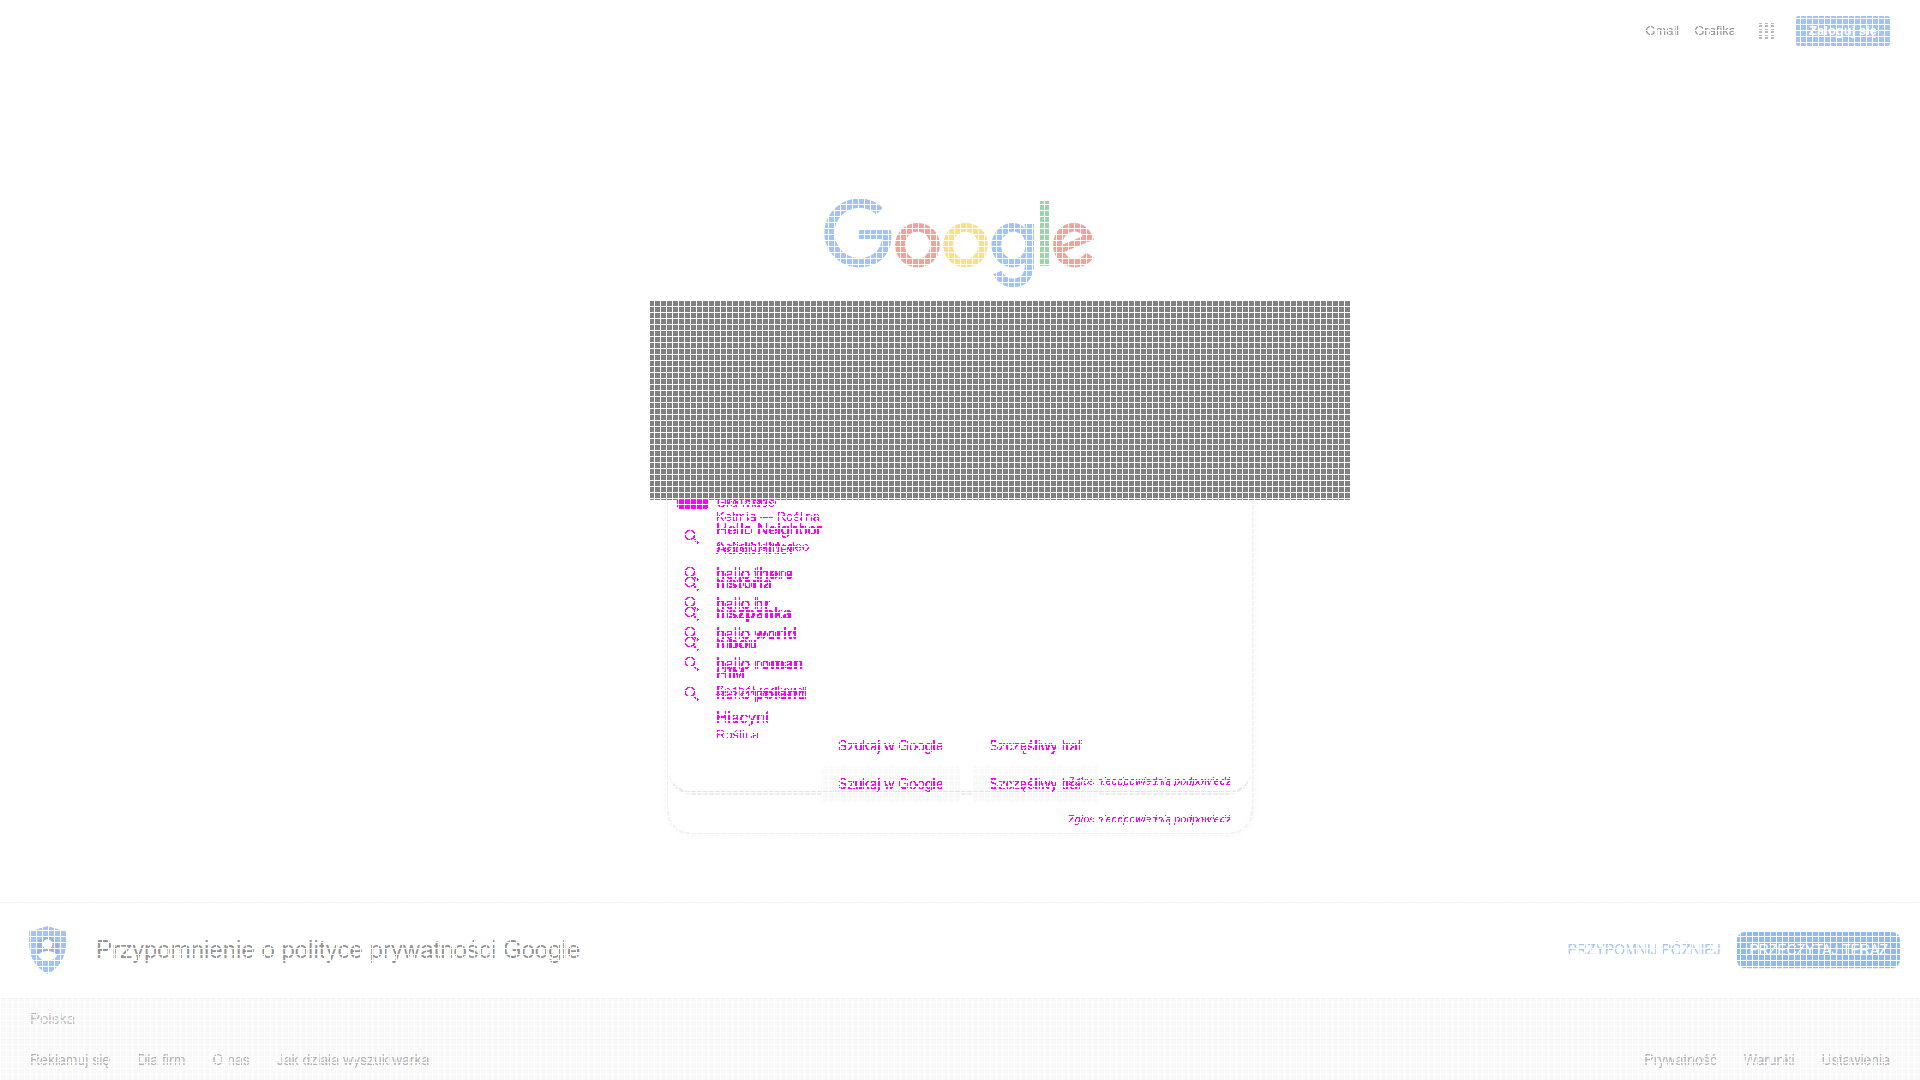
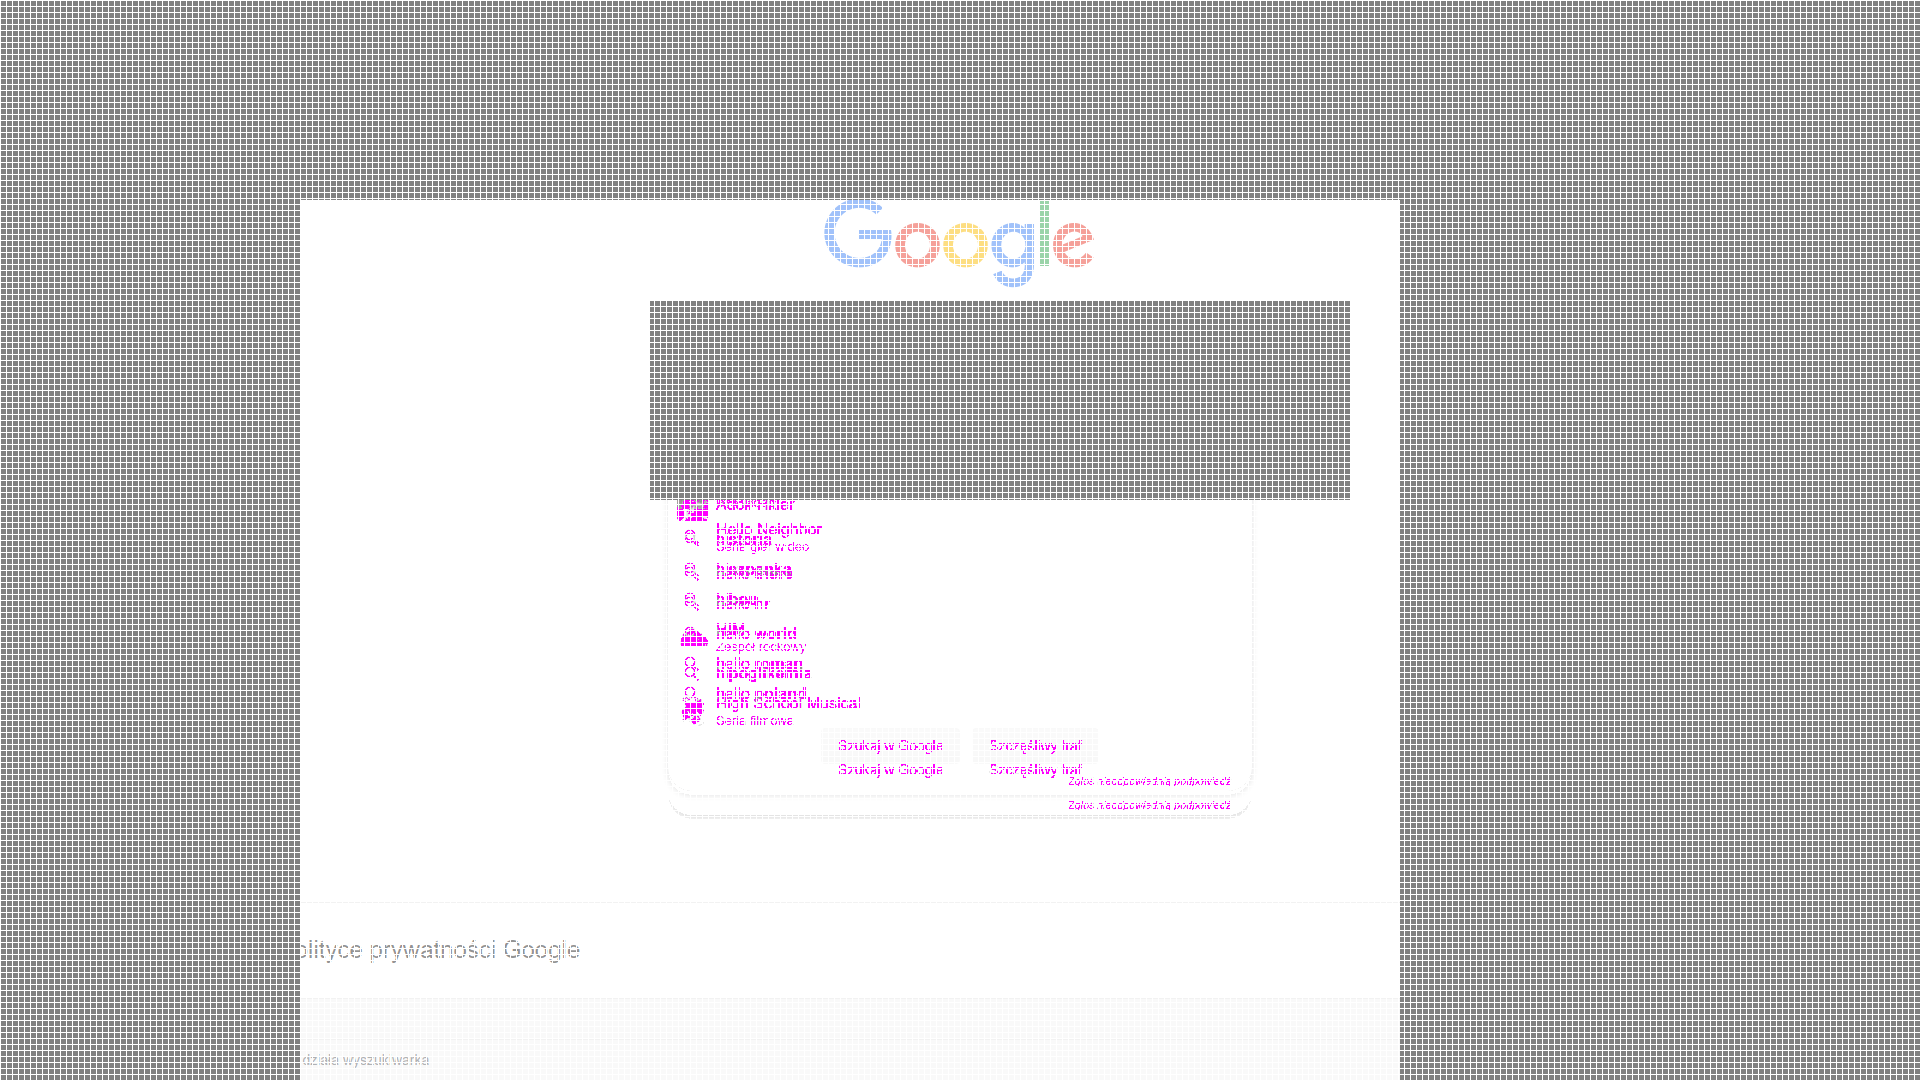
Update test with new API

diff --git a/examples/google.test.js b/examples/google.test.js
@@ -19,7 +19,7 @@ describe('google test', () => {
 
   it(`check if google exists`, async () => {
     // create ScreenshotTester with optional config
-    const tester = await ScreenshotTester(0.1, false, false, [[650, 300, 700, 200]], {
+    const tester = await ScreenshotTester(0.1, false, false, { ignoreRectangles: [[650, 300, 700, 200]], includeRectangles: [[300, 200, 1100, 1100]]}, {
       transparency: 0.5
     })
 
